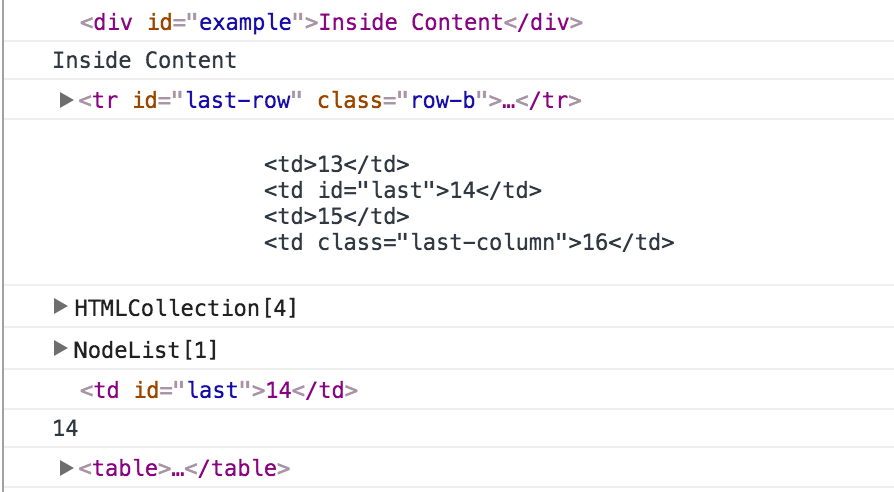
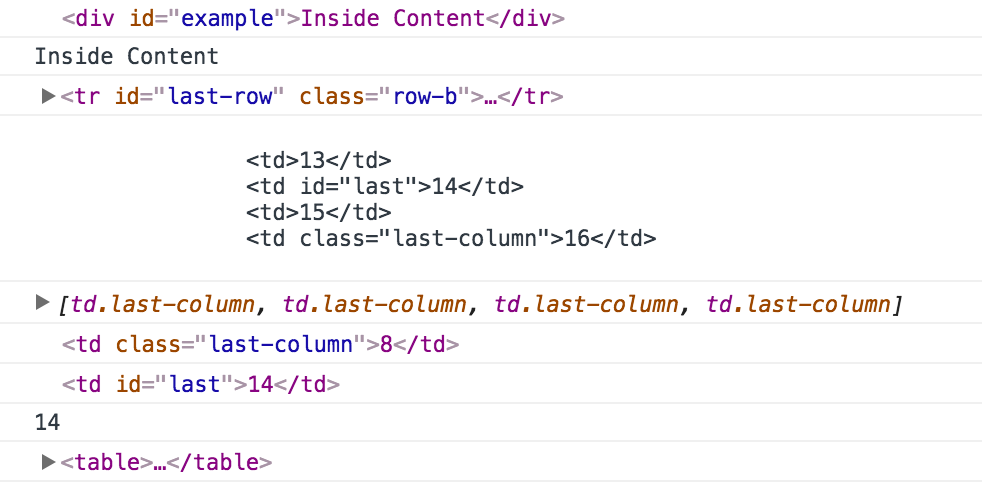
fixing dom queries assignment

diff --git a/assignments/Assignment-dom-queries.html b/assignments/Assignment-dom-queries.html
@@ -64,7 +64,7 @@ Please select the following and output it's results using console.log(). Once yo
 
 <p>Using the querySelector or querySelectorAll:</p>
 <ol>
-	<li>Select elements that have both the Class of "last-row" and "row2". Be careful what order you select the classes in</li>
+	<li>Select elements that have both the Class of "row2" and "last-column" and output it. Be careful what order you select the classes in</li>
 	<li>Select the element with the ID of "last". Also output the value of this element</li>
 	<li>Select the element that is the "Table" element</li>
 </ol>
@@ -79,6 +79,8 @@ Please select the following and output it's results using console.log(). Once yo
 var exampleEl = document.getElementById('example');
 console.log(exampleEl);
 console.log(exampleEl.innerHTML);
+
+
 
 </script>
 </html>

diff --git a/template.html b/template.html
@@ -1,0 +1,12 @@
+<html>
+<style type="text/css">
+   
+</style>
+<body>
+	<div>
+	</div>
+</body>
+<script type="text/javascript">
+
+</script>
+</html>
